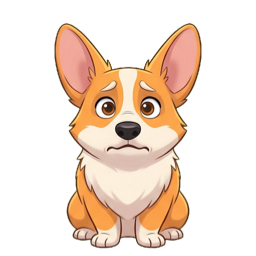
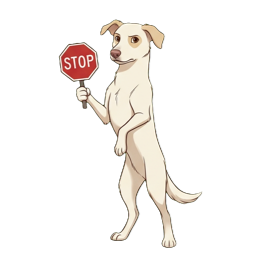
Replace corgi with custom dog and add playful status animations

diff --git a/Sources/OverlaySelfCheck/main.swift b/Sources/OverlaySelfCheck/main.swift
@@ -232,7 +232,7 @@ do {
     check(MascotMood.select(in: moodStore.view(now: seconds(8)), now: seconds(8)) == .unavailable,
           "stale-only sources select unavailable mascot")
 
-    // Working: 4 s of 8 fps running, then 2 s of sniffing at half speed, then running again.
+    // Work preserves running/sniffing, then rotates through all five requested games.
     let tick = MascotAnimation.tickInterval
     check(MascotAnimation.frame(for: .working, tick: 0, reduceMotion: false) == .run0, "work starts running")
     check((0..<4).map { MascotAnimation.frame(for: .working, tick: $0, reduceMotion: false) }
@@ -242,17 +242,39 @@ do {
           "running lasts four seconds")
     check((0..<8).map { MascotAnimation.frame(for: .working, tick: sniffStart + $0, reduceMotion: false) }
           == [.sniff0, .sniff0, .sniff1, .sniff1, .sniff2, .sniff2, .sniff3, .sniff3], "sniff cycle at half speed")
-    check(MascotAnimation.frame(for: .working, tick: Int(6 / tick), reduceMotion: false) == .run0,
-          "running resumes after two seconds of sniffing")
-    for t in [-5, 0, 7, 40, 1_000_003] {
-        check(MascotAnimation.frame(for: .working, tick: t, reduceMotion: true) == .run3,
-              "Reduce Motion keeps working on one still frame")
-        check(MascotFrame.allCases.contains(MascotAnimation.frame(for: .working, tick: t, reduceMotion: false)),
-              "any tick selects a bundled frame")
+    let games: [[MascotFrame]] = [
+        [.splash0, .splash1, .splash2, .splash3], [.dig0, .dig1, .dig2, .dig3],
+        [.tug0, .tug1, .tug2, .tug3], [.roll0, .roll1, .roll2, .roll3],
+        [.fetch0, .fetch1, .fetch2, .fetch3],
+    ]
+    for (index, frames) in games.enumerated() {
+        let start = Int((6 + Double(index) * 4) / tick)
+        let expected = (0..<32).map { frames[$0 / 2 % 4] }
+        check((0..<32).map { MascotAnimation.frame(for: .working, tick: start + $0, reduceMotion: false) } == expected,
+              "\(frames[0]) plays four distinct frames at 4 fps for four seconds")
     }
-    for mood in [MascotMood.sleeping, .blocked, .unavailable, .celebrating] {
+    let workPeriod = Int(26 / tick)
+    check(MascotAnimation.frame(for: .working, tick: workPeriod, reduceMotion: false) == .run0,
+          "running resumes after every game")
+    check(MascotAnimation.frame(for: .working, tick: workPeriod - 1, reduceMotion: false) == .fetch3,
+          "last game finishes before wrapping")
+    for t in [Int.min, -209, -5, 0, 7, 40, 1_000_003, Int.max] {
+        check(MascotAnimation.frame(for: .working, tick: t, reduceMotion: true) == .standing,
+              "Reduce Motion keeps working on a still standing frame")
+        check(MascotAnimation.frame(for: .working, tick: t, reduceMotion: false)
+              == MascotAnimation.frame(for: .working, tick: (t % workPeriod + workPeriod) % workPeriod, reduceMotion: false),
+              "work wraps safely for any tick")
+        check(MascotAnimation.frame(for: .blocked, tick: t, reduceMotion: true) == .blocked,
+              "Reduce Motion freezes the STOP pose")
+    }
+    let stopFrames: [MascotFrame] = [.blocked, .blocked1, .blocked2, .blocked3]
+    check((0..<32).map { MascotAnimation.frame(for: .blocked, tick: $0, reduceMotion: false) }
+          == (0..<32).map { stopFrames[$0 % 16 / 4] }, "STOP animation loops at 2 fps without work frames")
+    for mood in [MascotMood.sleeping, .unavailable, .celebrating] {
         check(Set((0..<48).map { MascotAnimation.frame(for: mood, tick: $0, reduceMotion: false) }).count == 1,
               "\(mood) keeps its single state frame")
+    }
+    for mood in [MascotMood.sleeping, .working, .blocked, .unavailable, .celebrating] {
         check((0..<48).allSatisfy { MascotAnimation.lift(for: mood, tick: $0, reduceMotion: true) == 0 },
               "Reduce Motion stops \(mood) bobbing")
         check((0..<48).allSatisfy { (0...5).contains(MascotAnimation.lift(for: mood, tick: $0, reduceMotion: false)) },
@@ -286,6 +308,8 @@ do {
                                 bytesPerRow: image.width * 4, space: CGColorSpaceCreateDeviceRGB(),
                                 bitmapInfo: CGImageAlphaInfo.premultipliedLast.rawValue)!
         context.draw(image, in: CGRect(x: 0, y: 0, width: image.width, height: image.height))
+        check(pixels.enumerated().contains { $0.offset % 4 == 3 && $0.element > 128 },
+              "\(frame.resourceName).png contains visible artwork")
         let edge = (0..<image.width).flatMap { [($0, 0), ($0, image.height - 1), (0, $0), (image.width - 1, $0)] }
         check(image.width == image.height && image.alphaInfo != .none, "\(frame.resourceName).png is square with alpha")
         check(edge.allSatisfy { pixels[($0.1 * image.width + $0.0) * 4 + 3] == 0 },

diff --git a/Sources/OverlayCore/MascotMood.swift b/Sources/OverlayCore/MascotMood.swift
@@ -16,45 +16,49 @@ public enum MascotMood: Equatable {
 }
 
 /// One illustrated mascot frame; `resourceName` is the bundled PNG without extension.
-public enum MascotFrame: Equatable, CaseIterable {
-    case run0, run1, run2, run3, sniff0, sniff1, sniff2, sniff3
-    case sleeping, blocked, celebrating, unavailable
+public enum MascotFrame: String, CaseIterable {
+    case run0 = "run-0", run1 = "run-1", run2 = "run-2", run3 = "run-3"
+    case sniff0 = "sniff-0", sniff1 = "sniff-1", sniff2 = "sniff-2", sniff3 = "sniff-3"
+    case splash0 = "splash-0", splash1 = "splash-1", splash2 = "splash-2", splash3 = "splash-3"
+    case dig0 = "dig-0", dig1 = "dig-1", dig2 = "dig-2", dig3 = "dig-3"
+    case tug0 = "tug-0", tug1 = "tug-1", tug2 = "tug-2", tug3 = "tug-3"
+    case roll0 = "roll-0", roll1 = "roll-1", roll2 = "roll-2", roll3 = "roll-3"
+    case fetch0 = "fetch-0", fetch1 = "fetch-1", fetch2 = "fetch-2", fetch3 = "fetch-3"
+    case blocked, blocked1 = "blocked-1", blocked2 = "blocked-2", blocked3 = "blocked-3"
+    case sleeping, celebrating, unavailable, standing
 
-    public var resourceName: String {
-        switch self {
-        case .run0: return "run-0"
-        case .run1: return "run-1"
-        case .run2: return "run-2"
-        case .run3: return "run-3"
-        case .sniff0: return "sniff-0"
-        case .sniff1: return "sniff-1"
-        case .sniff2: return "sniff-2"
-        case .sniff3: return "sniff-3"
-        case .sleeping: return "sleeping"
-        case .blocked: return "blocked"
-        case .celebrating: return "celebrating"
-        case .unavailable: return "unavailable"
-        }
-    }
+    public var resourceName: String { rawValue }
 }
 
 /// Frame and vertical offset for an animation tick; ticks are `MascotAnimation.tickInterval` apart.
 public enum MascotAnimation {
     public static let tickInterval = 0.125
-    /// Working alternates 4 s running in place (8 fps) with 2 s sniffing (4 fps).
+    /// Work: run for 4 s, sniff for 2 s, then five 4 s play activities; repeat.
     static let runTicks = 32, sniffTicks = 16
     static let run: [MascotFrame] = [.run0, .run1, .run2, .run3]
     static let sniff: [MascotFrame] = [.sniff0, .sniff1, .sniff2, .sniff3]
+    static let playTicks = 32
+    static let play: [[MascotFrame]] = [
+        [.splash0, .splash1, .splash2, .splash3],
+        [.dig0, .dig1, .dig2, .dig3],
+        [.tug0, .tug1, .tug2, .tug3],
+        [.roll0, .roll1, .roll2, .roll3],
+        [.fetch0, .fetch1, .fetch2, .fetch3],
+    ]
+    static let stop: [MascotFrame] = [.blocked, .blocked1, .blocked2, .blocked3]
 
     public static func frame(for mood: MascotMood, tick: Int, reduceMotion: Bool) -> MascotFrame {
         switch mood {
         case .working:
-            // Reduce Motion: one still frame with all four paws down.
-            guard !reduceMotion else { return .run3 }
-            let phase = positive(tick, runTicks + sniffTicks)
-            return phase < runTicks ? run[phase % run.count] : sniff[(phase - runTicks) / 2 % sniff.count]
+            guard !reduceMotion else { return .standing }
+            let phase = positive(tick, runTicks + sniffTicks + playTicks * play.count)
+            if phase < runTicks { return run[phase % run.count] }
+            if phase < runTicks + sniffTicks { return sniff[(phase - runTicks) / 2 % sniff.count] }
+            let playTick = phase - runTicks - sniffTicks
+            let frames = play[playTick / playTicks]
+            return frames[playTick % playTicks / 2 % frames.count]
         case .sleeping: return .sleeping
-        case .blocked: return .blocked
+        case .blocked: return reduceMotion ? .blocked : stop[positive(tick, 16) / 4]
         case .celebrating: return .celebrating
         case .unavailable: return .unavailable
         }

diff --git a/scripts/prepare-corgi-assets.swift b/scripts/prepare-corgi-assets.swift
@@ -1,6 +1,6 @@
-// Cuts the green-screen corgi sheets in Art/corgi into transparent mascot frames.
+// Cuts the green-screen dog sheets in Art/dog into transparent mascot frames.
 // Usage, from the repository root: swift scripts/prepare-corgi-assets.swift
-// Writes Sources/OverlayApp/Resources/Corgi/*.png and a review sheet at .build/corgi-contact-sheet.png.
+// Retains the legacy Resources/Corgi directory and script name; the art is now the approved dog.
 import CoreGraphics
 import Foundation
 import ImageIO
@@ -10,20 +10,23 @@ let cell = 512
 let canvas = 256
 let padding = 8
 let output = URL(fileURLWithPath: "Sources/OverlayApp/Resources/Corgi")
-let sheets = URL(fileURLWithPath: "Art/corgi")
+let sheets = URL(fileURLWithPath: "Art/dog")
 
-/// Each group shares one crop box so the motion between its frames survives the cut.
-/// Cells are (column, row) of a 2×2 sheet. The sheet's two left-paw strides are near duplicates,
-/// so the second one is mirrored to make the paws alternate.
-let groups: [(sheet: String, frames: [(name: String, column: Int, row: Int, mirrored: Bool)])] = [
-    ("run-sheet", [("run-0", 0, 0, false), ("run-1", 1, 0, false), ("run-2", 0, 1, true), ("run-3", 1, 1, false)]),
-    ("sniff-sheet", [("sniff-0", 0, 0, false), ("sniff-1", 1, 0, false), ("sniff-2", 0, 1, false),
-                     ("sniff-3", 1, 1, false)]),
-    ("states-sheet", [("sleeping", 0, 0, false)]),
-    ("states-sheet", [("blocked", 1, 0, false)]),
-    ("states-sheet", [("celebrating", 0, 1, false)]),
-    ("states-sheet", [("unavailable", 1, 1, false)]),
-]
+/// Each sequence shares a crop box so motion between its 2×2 cells survives the cut.
+var groups: [(sheet: String, frames: [(name: String, column: Int, row: Int)])] = []
+for activity in ["run", "sniff", "splash", "dig", "tug", "roll", "fetch", "blocked"] {
+    let frames: [(name: String, column: Int, row: Int)] = (0..<4).map { index in
+        let name = activity == "blocked" && index == 0 ? "blocked" : "\(activity)-\(index)"
+        return (name, index % 2, index / 2)
+    }
+    groups.append((activity + "-sheet", frames))
+}
+groups += [
+        ("states-sheet", [("sleeping", 0, 0)]),
+        ("states-sheet", [("unavailable", 1, 0)]),
+        ("states-sheet", [("celebrating", 0, 1)]),
+        ("states-sheet", [("standing", 1, 1)]),
+    ]
 
 struct Box {
     var minX = Int.max, minY = Int.max, maxX = Int.min, maxY = Int.min
@@ -125,7 +128,6 @@ for (index, group) in groups.enumerated() {
     let originY = Double(padding) - Double(cell - 1 - union.maxY) * scale
     for (frame, keyedCell) in zip(group.frames, keyed[index]) {
         let target = context(width: canvas, height: canvas)
-        if frame.mirrored { target.translateBy(x: CGFloat(canvas), y: 0); target.scaleBy(x: -1, y: 1) }
         target.draw(image(keyedCell.pixels, width: cell, height: cell),
                     in: CGRect(x: originX, y: originY, width: drawnWidth, height: drawnWidth))
         let result = target.makeImage()!

diff --git a/Sources/OverlayApp/PanelController.swift b/Sources/OverlayApp/PanelController.swift
@@ -8,7 +8,7 @@ private final class FlippedView: NSView {
     override var isFlipped: Bool { true }
 }
 
-/// Illustrated corgi frames, decoded once from the bundled PNGs.
+/// Illustrated dog frames, decoded once from the bundled PNGs.
 private enum CorgiArt {
     static let frames: [MascotFrame: NSImage] = {
         var frames: [MascotFrame: NSImage] = [:]
@@ -18,7 +18,7 @@ private enum CorgiArt {
                                               subdirectory: "Corgi"),
                   let source = CGImageSourceCreateWithURL(url as CFURL, nil),
                   let image = CGImageSourceCreateImageAtIndex(source, 0, options) else {
-                NSLog("Herdr Status Overlay: missing corgi frame %@", frame.resourceName)
+                NSLog("Herdr Status Overlay: missing dog frame %@", frame.resourceName)
                 continue
             }
             frames[frame] = NSImage(cgImage: image, size: NSSize(width: image.width, height: image.height))
@@ -301,7 +301,7 @@ final class PanelController: NSObject, NSWindowDelegate {
     // MARK: Panel setup
 
     private func configurePanel() {
-        corgi.setAccessibilityLabel("Corgi status mascot")
+        corgi.setAccessibilityLabel("Dog status mascot")
         corgi.translatesAutoresizingMaskIntoConstraints = false
         corgi.widthAnchor.constraint(equalToConstant: CorgiView.side).isActive = true
         corgi.heightAnchor.constraint(equalToConstant: CorgiView.side).isActive = true
@@ -416,7 +416,7 @@ final class PanelController: NSObject, NSWindowDelegate {
         if mood != self.mood {
             self.mood = mood
             tick = 0
-            corgi.setAccessibilityLabel("Corgi: \(mood)")
+            corgi.setAccessibilityLabel("Dog: \(mood)")
         } else if advance && !reduceMotion {
             tick += 1
         }

diff --git a/Package.swift b/Package.swift
@@ -10,7 +10,7 @@ let package = Package(
     ],
     targets: [
         .target(name: "OverlayCore"),
-        // Corgi frames are generated by scripts/prepare-corgi-assets.swift from Art/corgi.
+        // Dog frames are generated by scripts/prepare-corgi-assets.swift from Art/dog (legacy bundle path).
         .executableTarget(name: "OverlayApp", dependencies: ["OverlayCore"],
                           resources: [.copy("Resources/Corgi")]),
         // XCTest is unavailable in Command Line Tools; this executable is the headless test suite.

diff --git a/README.md b/README.md
@@ -25,11 +25,11 @@ Stop: zamknięcie zakładki pluginu, „Quit overlay” w menu `HSO` na pasku me
 
 **Zwijanie.** Strzałka w nagłówku pierwszej karty zwija panel do małego, przeciąganego paska. Pokazuje on wyłącznie niezerowe sumy: ● pracujący, ⚠ zablokowani, ✓ zakończeni (`done`), ze wszystkich świeżych źródeł. Bezczynni i nieznani są pomijani. Przy braku aktywnych jest „No active agents”, a bez świeżych danych „—”. Liczniki nie deduplikują agentów między źródłami. Strzałka na pasku przywraca pełną listę; wybrany tryb jest zapisywany w `panel.json`.
 
-**Auto-hide.** Opcja „Auto-hide” w menu `HSO` zostawia na ekranie corgiego z kreskówkowym dymkiem przy piesku, zawierającym te same liczniki co tryb zminimalizowany, bez strzałki. Dymek ma falowany obrys chmurki, dwa bąbelki prowadzące do corgiego, białe tło o kryciu 22% i cieniowane napisy; przy systemowym Reduce Transparency jest biały z ciemnymi napisami. Szerokość dymka dopasowuje się do widocznych liczników (bez zmiany rozmiaru tekstu). Gdy świeże źródła nie mają aktywnych agentów, dymek znika i zostaje sam corgi; brak świeżych danych nadal pokazuje „—”. Najazd na pieska lub dymek rozwija pełną listę bez przejmowania fokusu; opuszczenie panelu chowa ją po około 0,4 s. Powrót kursora anuluje chowanie. Piesek pozostaje na miejscu: tryb rezerwuje przestrzeń na rozwinięcie w wybranym kierunku, dlatego blisko krawędzi ekranu pozycja może być korygowana. Ustawienie jest zapisywane w `panel.json`, domyślnie wyłączone; po wyłączeniu wraca wcześniejszy tryb ręczny.
+**Auto-hide.** Opcja „Auto-hide” w menu `HSO` zostawia na ekranie pieska z kreskówkowym dymkiem przy piesku, zawierającym te same liczniki co tryb zminimalizowany, bez strzałki. Dymek ma falowany obrys chmurki, dwa bąbelki prowadzące do pieska, białe tło o kryciu 22% i cieniowane napisy; przy systemowym Reduce Transparency jest biały z ciemnymi napisami. Szerokość dymka dopasowuje się do widocznych liczników (bez zmiany rozmiaru tekstu). Gdy świeże źródła nie mają aktywnych agentów, dymek znika i zostaje sam piesek; brak świeżych danych nadal pokazuje „—”. Najazd na pieska lub dymek rozwija pełną listę bez przejmowania fokusu; opuszczenie panelu chowa ją po około 0,4 s. Powrót kursora anuluje chowanie. Piesek pozostaje na miejscu: tryb rezerwuje przestrzeń na rozwinięcie w wybranym kierunku, dlatego blisko krawędzi ekranu pozycja może być korygowana. Ustawienie jest zapisywane w `panel.json`, domyślnie wyłączone; po wyłączeniu wraca wcześniejszy tryb ręczny.
 
-**Kierunek panelu.** Menu `HSO → Panel position` wybiera położenie listy i dymka względem corgiego: Top left (domyślne), Top right, Bottom left lub Bottom right. W Auto-hide dymek jest odsunięty po przekątnej na wybraną stronę pieska, także przy jednym liczniku. Zmiana zachowuje pozycję pieska, o ile układ mieści się na ekranie. Wybór działa także w ręcznym trybie i jest zapisywany w `panel.json`; starsze ustawienia zachowują dotychczasowy kierunek.
+**Kierunek panelu.** Menu `HSO → Panel position` wybiera położenie listy i dymka względem pieska: Top left (domyślne), Top right, Bottom left lub Bottom right. W Auto-hide dymek jest odsunięty po przekątnej na wybraną stronę pieska, także przy jednym liczniku. Zmiana zachowuje pozycję pieska, o ile układ mieści się na ekranie. Wybór działa także w ręcznym trybie i jest zapisywany w `panel.json`; starsze ustawienia zachowują dotychczasowy kierunek.
 
-**Maskotka.** Rysunkowy corgi (96 pt) pokazuje stan przy dymku ze zwiniętymi licznikami i w rogu rozwiniętego panelu zgodnym z wybranym kierunkiem, poza przewijanymi kartami: śpi przy bezczynnych agentach z unoszącymi się i zanikającymi literami „z”, „z”, „Z” nad głową, podczas pracy na zmianę biegnie w miejscu (4 s) i węszy (2 s), martwi się przy blokadzie, a przy braku świeżych danych przekrzywia głowę. Po nowym zakończeniu świętuje przez 3 s (blokada ma pierwszeństwo). macOS Reduce Motion zatrzymuje animację na jednej klatce; gdy panel jest ukryty, animacja nie działa. Klatki w `Sources/OverlayApp/Resources/Corgi` generuje `swift scripts/prepare-corgi-assets.swift` z arkuszy w `Art/corgi`.
+**Maskotka.** Kreskówkowy jasny piesek ze zdjęcia (96 pt, bez szelek i smyczy) pokazuje stan przy dymku ze zwiniętymi licznikami i w rogu rozwiniętego panelu zgodnym z wybranym kierunkiem, poza przewijanymi kartami. Śpi przy bezczynnych agentach z unoszącymi się literami „z”, „z”, „Z”. Podczas pracy cyklicznie biegnie w miejscu (4 s), węszy (2 s), pluska się w basenie, wykopuje kość, szarpie zabawkę, tarza się i aportuje piłkę (każda zabawa po 4 s). Przy blokadzie stoi ze znakiem **STOP**, delikatnie porusza głową i ogonem oraz mruga; blokada przerywa pracę i świętowanie. Przy braku świeżych danych przekrzywia głowę, a po nowym zakończeniu świętuje przez 3 s. macOS Reduce Motion pokazuje nieruchomą pozę (podczas pracy stojącą, przy blokadzie ze STOP); gdy panel jest ukryty, animacja nie działa. Pozycja i rozmiar maskotki nie zmieniają się. Klatki w `Sources/OverlayApp/Resources/Corgi` generuje `swift scripts/prepare-corgi-assets.swift` z arkuszy w `Art/dog`; nazwy skryptu i katalogu zasobów pozostają historyczne. Zatwierdzony wzór i opis arkuszy: `Art/dog/`.
 **Kliknięcie wiersza** aktywuje Ghostty (macOS przełącza na jego Space) i wywołuje `herdr [--machine <alias>] agent focus <pane_id>`. Błąd sygnalizuje dźwiękiem.
 
 **`done`.** Agent ma status `done`, gdy serwer zgłasza `done` albo gdy overlay wykryje wzrost `completion_seq`. Po 10 minutach oznaczenie przechodzi w bezczynny; gdy agent znów pracuje, od razu wraca status pracujący (zablokowany i nieznany też mają pierwszeństwo przed `done`). Pierwszy odczyt, także po błędzie lub wybudzeniu Maca, ustala punkt odniesienia `completion_seq`, więc nie tworzy fałszywych zakończeń, ale jawne `done` serwera pokazuje. Stan jest wyłącznie w pamięci.

diff --git a/Art/dog/README.md b/Art/dog/README.md
@@ -1,0 +1,21 @@
+# Dog mascot
+
+`approved-concept.png` is the user-approved character reference: a cream, long-legged dog with pale tan floppy ears, brown eyes and a pink-brown nose. No harness, leash or collar. Sheets were generated from that reference in a hand-drawn cartoon style.
+
+Each `*-sheet.png` is a 1024×1024 green-screen image with four 512×512 cells in reading order. Animation groups keep a shared crop and scale, with a transparent perimeter in the output.
+
+- `run`, `sniff`: existing working activities, redrawn with the new dog.
+- `splash`, `dig`, `tug`, `roll`, `fetch`: additional working activities.
+- `blocked`: standing dog holding a readable STOP sign, with gentle head/tail movement and a blink.
+- `states`: sleeping (top left), unavailable/head tilt (top right), celebrating (bottom left), still working (bottom right).
+
+Regenerate transparent 256×256 frames from the repository root:
+
+```sh
+swift scripts/prepare-corgi-assets.swift
+swift run OverlaySelfCheck
+```
+
+The preparation script and `Sources/OverlayApp/Resources/Corgi` retain their legacy names. The app uses only the new dog frames; the old `Art/corgi` sheets are historical and are not inputs to this pipeline.
+
+Inspect `.build/corgi-contact-sheet.png` on dark and light backgrounds after regeneration. The app keeps its 96 pt mascot footprint and existing layout/position preferences. Reduce Motion uses a still standing dog during work and a still STOP pose when blocked.
